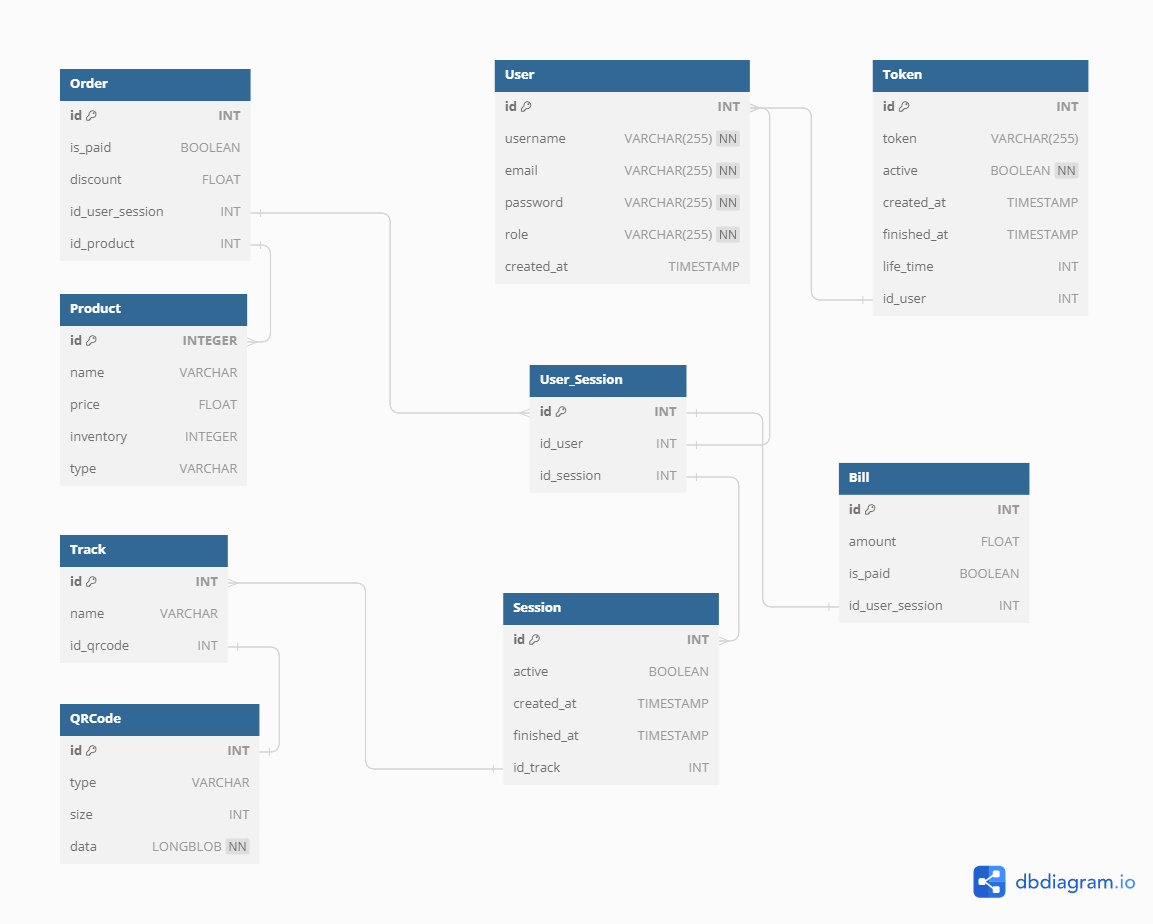
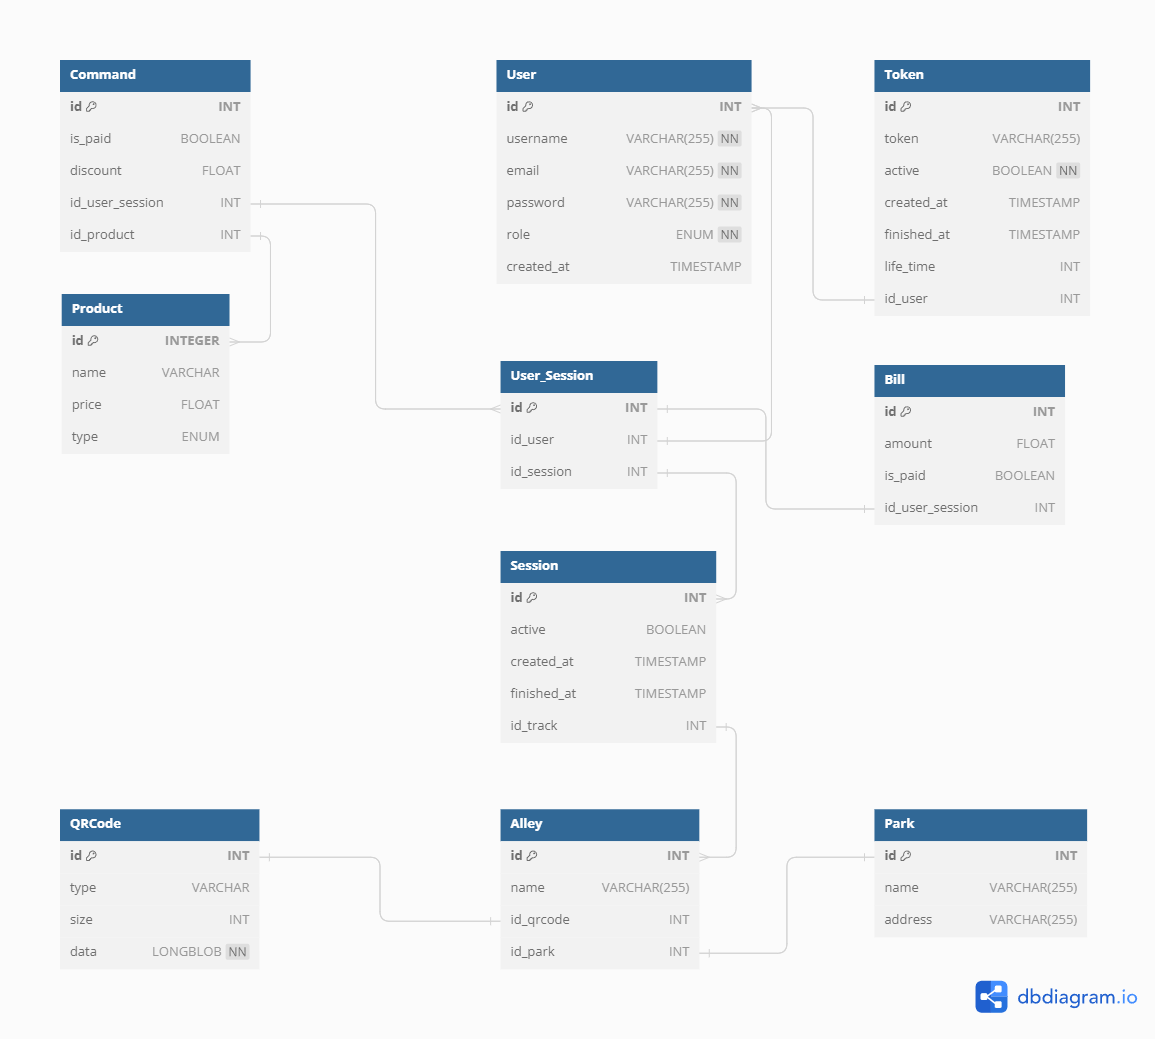
refactor: add park model

diff --git a/sessions/src/database/session.js b/sessions/src/database/session.js
@@ -6,11 +6,31 @@ const Session = sequelize.define('Session', {
   active: DataTypes.BOOLEAN,
   created_at: { type: DataTypes.DATE, defaultValue: Sequelize.literal('CURRENT_TIMESTAMP') },
   finished_at: DataTypes.DATE,
-  id_track: DataTypes.INTEGER,
+  id_alley: DataTypes.INTEGER,
 }, { timestamps: false, tableName: 'Session' });
 
+const createSession = async (id_alley) => {
+  try {
+    return await Session.create({ active: true, id_alley: id_alley });
+  } catch (error) {
+    console.error(error);
+    return null;
+  }
+};
+
+const getAvailableSessionByAlley = async (id_alley) => {
+  try {
+    return await Session.findAll({ where: { id_alley: id_alley, active: true } });
+  } catch (error) {
+    console.error(error);
+    return null;
+  }
+};
+
 module.exports = { 
-  Session
+  Session,
+  createSession,
+  getAvailableSessionByAlley
 };
 
 // const apiProducts = require("../utils/apiProducts");

diff --git a/sessions/src/database/alleys.js b/sessions/src/database/alleys.js
@@ -5,8 +5,29 @@ const Alley = sequelize.define('Alley', {
   id: { type: DataTypes.INTEGER, autoIncrement: true, primaryKey: true },
   name: DataTypes.STRING(255),
   id_qrcode: DataTypes.INTEGER,
+  id_park: DataTypes.INTEGER,
 }, { timestamps: false, tableName: 'Alley' });
 
+const getAlleyById = async (id) => {
+  try {
+    return await Alley.findByPk(id);
+  } catch (error) {
+    console.error(error);
+    return null;
+  }
+};
+
+const getAlleyByQrCode = async (id_qrcode) => {
+  try {
+    return await Alley.findOne({ where: { id_qrcode } });
+  } catch (error) {
+    console.error(error);
+    return null;
+  }
+};
+
 module.exports = { 
-  Alley
+  Alley,
+  getAlleyById,
+  getAlleyByQrCode
 };

diff --git a/sessions/src/database/qrcode.js b/sessions/src/database/qrcode.js
@@ -1,0 +1,23 @@
+const { Sequelize, DataTypes } = require('sequelize');
+const { sequelize } = require('./database');
+
+const QRCode = sequelize.define('QRCode', {
+  id: { type: DataTypes.INTEGER, autoIncrement: true, primaryKey: true },
+  type: DataTypes.STRING(255),
+  size: DataTypes.INTEGER,
+  data: { type: DataTypes.BLOB('long'), allowNull: false }
+}, { timestamps: false, tableName: 'QRCode' });
+
+const getQRCodeById = async (id) => {
+  try {
+    return await QRCode.findByPk(id);
+  } catch (error) {
+    console.error(error);
+    return null;
+  }
+};
+
+module.exports = {
+  QRCode,
+  getQRCodeById
+};

diff --git a/sessions/src/database/UserSession.js b/sessions/src/database/UserSession.js
@@ -7,6 +7,16 @@ const User_Session = sequelize.define('User_Session', {
   id_session: DataTypes.INTEGER,
 }, { timestamps: false, tableName: 'User_Session' });
 
+const createUserSession = async (id_user, id_session) => {
+  try {
+    return await User_Session.create({ id_user, id_session });
+  } catch (error) {
+    console.error(error);
+    return null;
+  }
+};
+
 module.exports = {
-  User_Session
+  User_Session,
+  createUserSession
 };

diff --git a/sessions/src/database/park.js b/sessions/src/database/park.js
@@ -1,0 +1,12 @@
+const { Sequelize, DataTypes } = require('sequelize');
+const { sequelize } = require('./database');
+
+const Park = sequelize.define('Park', {
+  id: { type: DataTypes.INTEGER, autoIncrement: true, primaryKey: true },
+  name: DataTypes.STRING(255),
+  address: DataTypes.STRING(255),
+}, { timestamps: false, tableName: 'Park' });
+
+module.exports = {
+  Park
+};

diff --git a/products/src/database/products.js b/products/src/database/products.js
@@ -9,6 +9,10 @@ const Product = sequelize.define('Product', {
   type: DataTypes.ENUM('snak', 'soft_drink', 'alcohol', 'food'),
 }, { timestamps: false, tableName: 'Product' });
 
+module.exports = {
+  Product
+};
+
 
 // const products = [
 //   {
